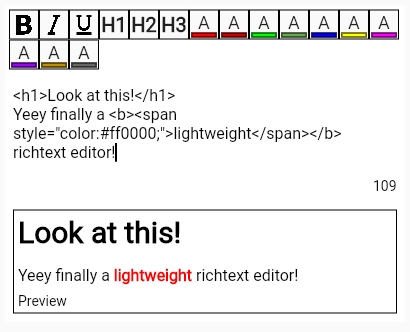
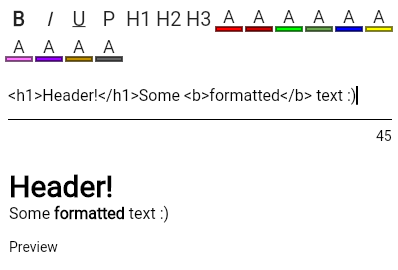
UI changes
changed style of editor buttons with InkWells for better UX
changed parsing behaviour to better support linebreaks in tags
added property to always show editor buttons if desired
new screenshots for README

diff --git a/lib/editor.dart b/lib/editor.dart
@@ -2,15 +2,12 @@ import 'dart:math';
 
 import 'package:flutter/material.dart';
 import 'package:flutter/services.dart';
-import 'package:light_html_editor/api/parser.dart';
 import 'package:light_html_editor/placeholder.dart';
 import 'package:light_html_editor/ui/buttons/color_button.dart';
-import 'package:light_html_editor/ui/buttons/font_button.dart';
-import 'package:light_html_editor/ui/buttons/text_button.dart';
+import 'package:light_html_editor/ui/buttons/custom_button.dart';
 import 'package:light_html_editor/renderer.dart';
 import 'package:light_html_editor/data/editor_properties.dart';
 import 'package:light_html_editor/data/renderer_properties.dart';
-import 'package:light_html_editor/api/richtext_node.dart';
 import 'package:light_html_editor/data/text_constants.dart';
 
 ///
@@ -62,6 +59,7 @@ class RichTextEditor extends StatefulWidget {
     ),
     this.editorDecoration = const EditorDecoration(),
     this.availableColors = TextConstants.defaultColors,
+    this.alwaysShowButtons = false,
     this.controller,
   }) : super(key: key);
 
@@ -73,6 +71,7 @@ class RichTextEditor extends StatefulWidget {
   final List<RichTextPlaceholder> placeholders;
   final List<String> availableColors;
   final TextEditingController? controller;
+  final bool alwaysShowButtons;
 
   final RendererDecoration previewDecoration;
   final EditorDecoration editorDecoration;
@@ -95,16 +94,19 @@ class _RichTextEditorState extends State<RichTextEditor> {
 
   @override
   void initState() {
+    _areButtonsVisible = widget.alwaysShowButtons;
+
     if (widget.controller != null) _textEditingController = widget.controller!;
 
     if (_textEditingController.text.isEmpty)
       _textEditingController.text = widget.initialValue ?? "";
 
-    _focusNode.addListener(() {
-      setState(() {
-        _areButtonsVisible = _focusNode.hasFocus;
+    if (!widget.alwaysShowButtons)
+      _focusNode.addListener(() {
+        setState(() {
+          _areButtonsVisible = _focusNode.hasFocus;
+        });
       });
-    });
 
     _textEditingController.addListener(() {
       setState(() {});
@@ -214,6 +216,9 @@ class _RichTextEditorState extends State<RichTextEditor> {
   /// wraps the current selection with <u></u>
   void _onUnderline() => _wrapWithTag("u");
 
+  /// wraps the current selection with <p></p>
+  void _onParagraph() => _wrapWithTag("p");
+
   /// wraps the current selection with <h1></h1>
   void _onH1() => _wrapWithTag("h1");
 
@@ -241,29 +246,71 @@ class _RichTextEditorState extends State<RichTextEditor> {
               width: double.infinity,
               child: Wrap(
                 children: [
-                  FontIconButton(
+                  FontCustomButton(
                     onClick: _onBold,
-                    icon: "assets/icons/editor/bold.png",
+                    icon: Text(
+                      "B",
+                      style: TextStyle(
+                        fontSize: 20,
+                        fontWeight: FontWeight.bold,
+                      ),
+                    ),
                   ),
-                  FontIconButton(
+                  FontCustomButton(
                     onClick: _onItalics,
-                    icon: "assets/icons/editor/italics.png",
+                    icon: Text(
+                      "I",
+                      style: TextStyle(
+                        fontSize: 20,
+                        fontStyle: FontStyle.italic,
+                      ),
+                    ),
                   ),
-                  FontIconButton(
+                  FontCustomButton(
                     onClick: _onUnderline,
-                    icon: "assets/icons/editor/underline.png",
+                    icon: Text(
+                      "U",
+                      style: TextStyle(
+                        fontSize: 20,
+                        decoration: TextDecoration.underline,
+                      ),
+                    ),
                   ),
-                  FontTextButton(
+                  FontCustomButton(
+                    onClick: _onParagraph,
+                    icon: Text(
+                      "P",
+                      style: TextStyle(
+                        fontSize: 20,
+                      ),
+                    ),
+                  ),
+                  FontCustomButton(
                     onClick: _onH1,
-                    icon: "H1",
+                    icon: Text(
+                      "H1",
+                      style: TextStyle(
+                        fontSize: 20,
+                      ),
+                    ),
                   ),
-                  FontTextButton(
+                  FontCustomButton(
                     onClick: _onH2,
-                    icon: "H2",
+                    icon: Text(
+                      "H2",
+                      style: TextStyle(
+                        fontSize: 20,
+                      ),
+                    ),
                   ),
-                  FontTextButton(
+                  FontCustomButton(
                     onClick: _onH3,
-                    icon: "H3",
+                    icon: Text(
+                      "H3",
+                      style: TextStyle(
+                        fontSize: 20,
+                      ),
+                    ),
                   ),
                   for (String color in widget.availableColors)
                     FontColorButton.fromColor(color, () => _onColor(color)),
@@ -311,7 +358,7 @@ class _RichTextEditorState extends State<RichTextEditor> {
                 ),
                 focusedBorder: UnderlineInputBorder(
                   borderSide: BorderSide(
-                    color: Colors.white,
+                    color: widget.editorDecoration.cursorColor,
                   ),
                 ),
               ),

diff --git a/lib/renderer.dart b/lib/renderer.dart
@@ -123,7 +123,9 @@ class RichtextRenderer extends StatelessWidget {
     int textLength = 0;
     bool full = false;
 
-    for (_TextNode node in flattenedNodes) {
+    for (int i = 0; i < flattenedNodes.length; i++) {
+      _TextNode node = flattenedNodes[i];
+
       String nodeText = node.text;
       if (maxLength != null && textLength + nodeText.length > maxLength!) {
         nodeText = nodeText.substring(
@@ -146,13 +148,17 @@ class RichtextRenderer extends StatelessWidget {
       );
       textLength += nodeText.length;
 
-      if (!ignoreLinebreaks && node.invokesNewline && tmp.length > 0) {
-        result.add(
-          RichText(
-            text: TextSpan(children: tmp),
-          ),
-        );
-        tmp = [];
+      if (!ignoreLinebreaks && tmp.length > 0) {
+        if (node.invokesNewline ||
+            (i + 1 < flattenedNodes.length &&
+                flattenedNodes[i + 1].invokesNewline)) {
+          result.add(
+            RichText(
+              text: TextSpan(children: tmp),
+            ),
+          );
+          tmp = [];
+        }
       }
 
       if (full) break;

diff --git a/lib/ui/buttons/custom_button.dart b/lib/ui/buttons/custom_button.dart
@@ -24,19 +24,22 @@ class FontCustomButton extends StatelessWidget {
 
   @override
   Widget build(BuildContext context) {
-    return GestureDetector(
-      onTap: () => onClick(),
-      child: Container(
-        decoration: BoxDecoration(
-          color: Colors.grey[50],
-          border: Border.all(
-            color: Colors.black,
+    return Container(
+      decoration: BoxDecoration(
+          // color: Colors.grey[50],
+          // border: Border.all(
+          //   color: Colors.black,
+          // ),
           ),
-        ),
-        width: 30,
-        height: 30,
-        child: Center(
-          child: icon,
+      width: 30,
+      height: 30,
+      child: Material(
+        color: Colors.white,
+        child: InkWell(
+          onTap: () => onClick(),
+          child: Center(
+            child: icon,
+          ),
         ),
       ),
     );

diff --git a/example/lib/example_colors.dart b/example/lib/example_colors.dart
@@ -1,8 +1,8 @@
 import 'package:flutter/material.dart';
 import 'package:light_html_editor/light_html_editor.dart';
 
-class RegularExample extends StatelessWidget {
-  const RegularExample({Key? key}) : super(key: key);
+class ColorExample extends StatelessWidget {
+  const ColorExample({Key? key}) : super(key: key);
 
   @override
   Widget build(BuildContext context) {
@@ -21,7 +21,9 @@ class RegularExample extends StatelessWidget {
             onChanged: (String html) {
               // do something with the richtext
             },
-            alwaysShowButtons: true,
+            availableColors: [
+              "#affe11", // only one color available to the editor
+            ],
           ),
         ),
       ),

diff --git a/lib/light_html_editor.dart b/lib/light_html_editor.dart
@@ -2,3 +2,5 @@ export 'editor.dart';
 export 'placeholder.dart';
 export 'renderer.dart';
 export 'api/parser.dart';
+export 'data/editor_properties.dart';
+export 'data/renderer_properties.dart';

diff --git a/example/lib/main.dart b/example/lib/main.dart
@@ -1,4 +1,3 @@
-import 'package:example/example_external_controller.dart';
 import 'package:example/example_regular.dart';
 import 'package:flutter/material.dart';
 

diff --git a/CHANGELOG.md b/CHANGELOG.md
@@ -1,3 +1,9 @@
+## 0.0.7
+
+* changed style of editor buttons with InkWells for better UX
+* changed parsing behaviour to better support linebreaks in tags
+* added property to always show editor buttons if desired
+
 ## 0.0.6
 
 * added maxHeight property to the renderer to have a scrolling preview when the content exceeds the desired maximum height
